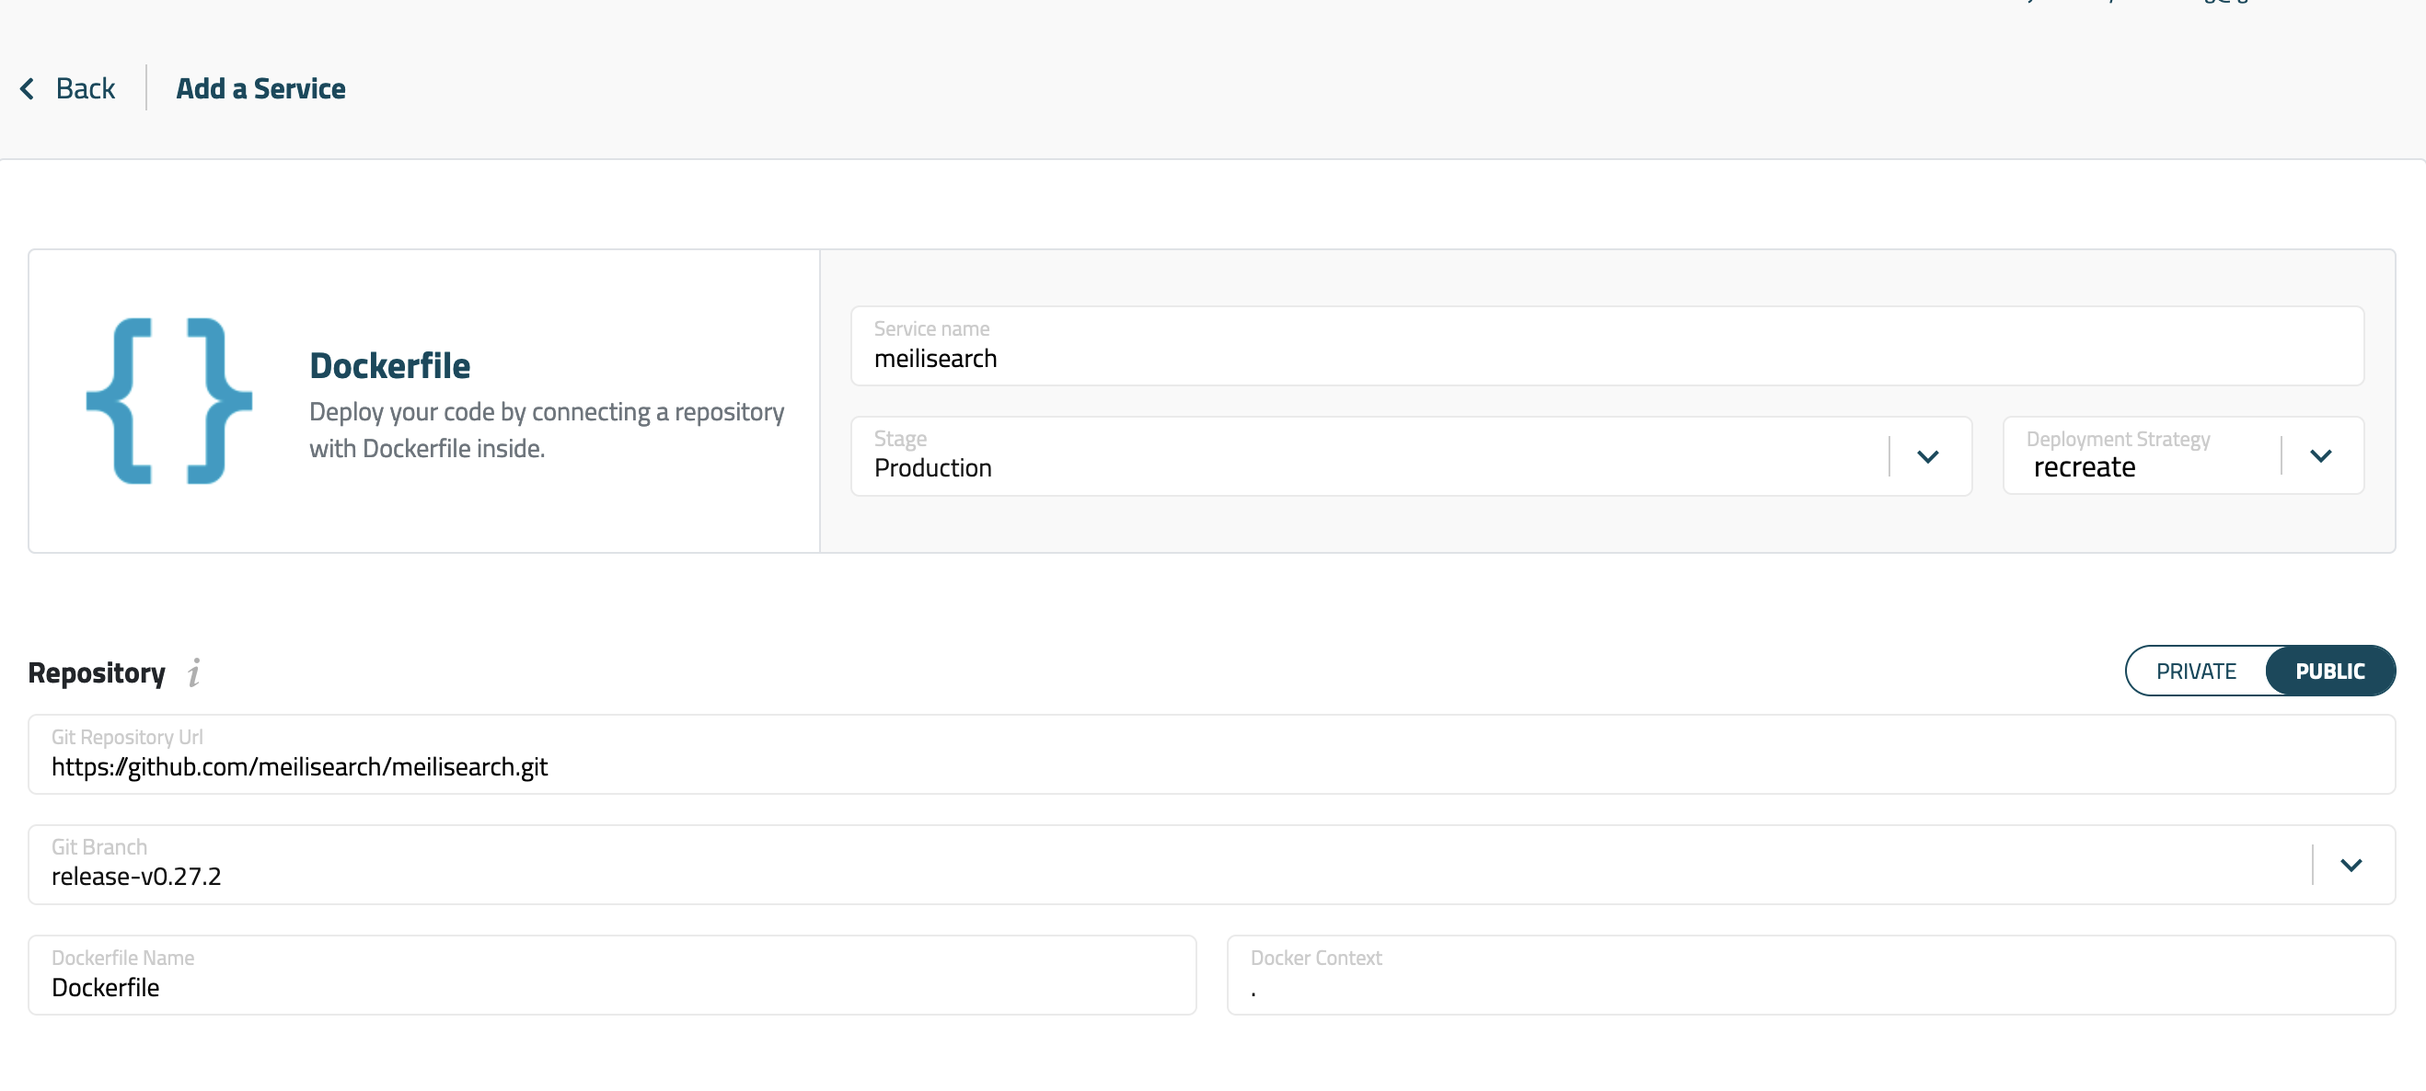
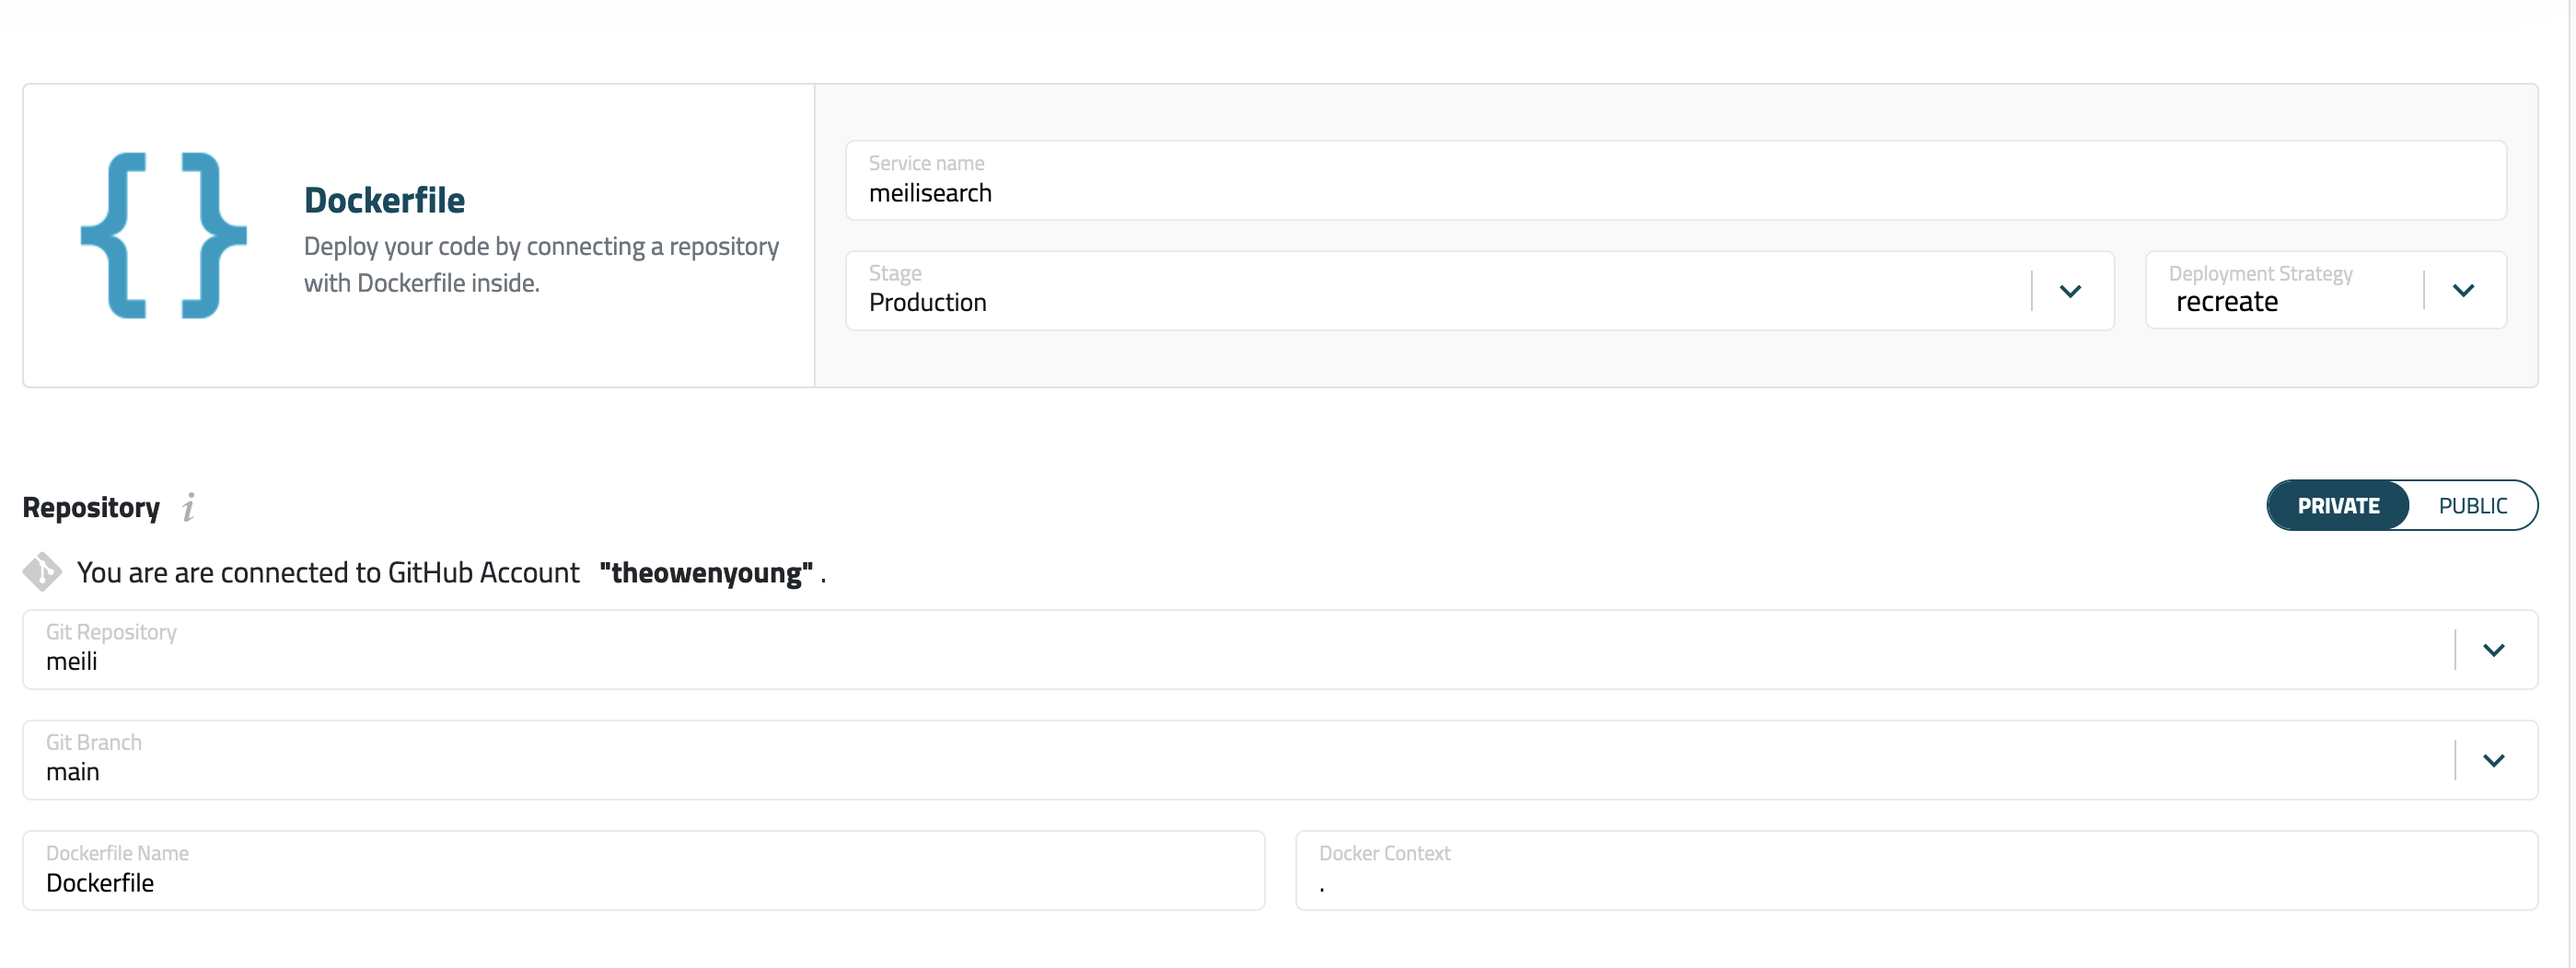
edit mogenius

diff --git a/content/blog/adding-search-to-zola-blog-with-meilisearch-deployed-on-mogenius/index.en.md b/content/blog/adding-search-to-zola-blog-with-meilisearch-deployed-on-mogenius/index.en.md
@@ -33,52 +33,53 @@ Let's see how to set it up:
 
 Just click ADD button, and fill in the form.
 
-## Step 2: Create a new service
+## Step 2: Create a new servicee
 
-Enter to the cloudspace, and click the add button to create a new service with `Bring your own code`
+Enter to the cloudspace, and click the add button to create a new service with `Use a template`, and search `meilisearch`
 
 ## Step 3: Configure the service
 
-1. Fill the servicename
-2. Set the repository to `https://github.com/meilisearch/meilisearch.git`
-3. Choose the branch to `release-v0.27.2`, the latest version 0.28 is not supported by [docs-scrape](https://github.com/meilisearch/docs-scraper), I have submitted [an issue](https://github.com/meilisearch/docs-scraper/issues/231)
+1. Fill the servicename, for me I just type `meilisearch`
+2. Connect your github account(you can give it only selected repo permissions, you must selected at least one repo, it can be any public repo)
+
+   Screenshot:
+   ![0](0.png)
+
+3. Click `Add repository`, input the repo name, I input it as `meili`, and with `public` permission.
 
    Screenshot:
 
    ![1](./1.png)
 
-4. set resources limit to max(or as your need).
+4. set resources limit (if needed, the default value is a recomendation from Mogenius).
+
+5. set environment variables:
+
+   1. add `MEILI_MASTER_KEY` as key vault to protect your master key. (Click `create new secret` to fill the secret)
+   2. the following environment variables can be plain text type.
+
+      ```bash
+      MEILI_NO_ANALYTICS=true
+      MEILI_ENV=production
+      ```
+
+      All environment options are [here](https://docs.meilisearch.com/learn/configuration/instance_options.html#environment)
 
    Screenshot:
 
    ![2](./2.png)
 
-5. set environment variables:
-
-   ```bash
-   MEILI_MASTER_KEY=<your master key>
-   MEILI_NO_ANALYTICS=true
-   MEILI_ENV=production
-   ```
-
-   All environment options are [here](https://docs.meilisearch.com/learn/configuration/instance_options.html#environment)
-
-6. set internal http port to `7700`
-
-7. optional, set custom domain. I set it to `meili.owenyoung.com`, I set a CNAME record `meili.owenyoung.com` to `meilisearch-prod-meilisearch-r4efxz.mo2.mogenius.io`, you will get the endpoint after the service created.
+6. optional, set custom domain. I set it to `meili.owenyoung.com`, I set a CNAME record `meili.owenyoung.com` to `meilisearch-prod-meilisearch-r4efxz.mo2.mogenius.io`, you will get the endpoint after the service created.
 
    Screenshot:
 
-   ![3](./3.png)
+   ![3](./4.png)
 
-8. Then, click the `Create Service` button. It may take 5 minutes to build and deploy the service.
-
-   Screenshot:
-   ![4](./4.png)
+7. Then, click the `Create Service` button. It may take 1 minute to build and deploy the service.
 
 ## Step 5: Get your meilisearch admin key, and user key
 
-After the service is created, the meilisearch is ready to use, you can visit <https://meili.owenyoung.com/> to test if everything is worked fine. For version `0.27.2`, the following is the success output:
+After the service is created, the meilisearch is ready to use, you can visit <https://meili.owenyoung.com/> to test if everything is worked fine. At this moment, the default meilisearch template version is [`v0.27.0rc1`](https://docs.mogenius.com/services/various/meilisearch), the following is the success output:
 
 ```json
 { "status": "Meilisearch is running" }
@@ -98,6 +99,8 @@ We'll use them in the next step.
 ## Step 6: Setup doc-scraper
 
 We need to build search index after every updates of our blogs, I use Github Actions to build my blog, so I just add a job after the site is deployed. We'll use [docs-scraper](https://github.com/meilisearch/docs-scraper) to scrape our whole site with `sitemap.xml` file. [docs-scraper](https://github.com/meilisearch/docs-scraper) will help us to build heading and content level search index, it'll bring the best search experience for our readers.
+
+> The current [docs-scrape is only adapted with `0.27.x`](https://github.com/meilisearch/docs-scraper#-compatibility-with-meilisearch), at this moment, the latest meilisearch version 0.28 is not supported, I have submitted [an issue](https://github.com/meilisearch/docs-scraper/issues/231), so the default Mogenius meilisearch template version `0.27.0rc1` is fine, we can also upgrade it to `v0.27.2`.(I have done this by change the [Dockerfile](https://github.com/theowenyoung/meili/blob/main/Dockerfile), Mongenius will monitor the updates, and automatically deploy the updates)
 
 See the [`.github/workflows/build.yml`](https://github.com/theowenyoung/blog/blob/main/.github/workflows/build.yml)
 
@@ -205,8 +208,12 @@ docsSearchBar({
 
 You can see the all source code on [my blog source code](https://github.com/theowenyoung/blog).
 
-As a programmer, it's not a big deal to setup those things with [mogenius](https://mogenius.com/home), sometimes their UI prompts are not very friendly, for example, the git address I entered at the beginning was `https://github.com/meilisearch/meilisearch`, then I can't create the service, the error message is: `This field is required.`, finally I tried another git url with suffix `.git`, then the form is valid, and I can choose the git branch. I don't know why they don't allow me to choose a tag branch, only the normal branches are allowed, luckily, Meilisearch has [one normal release branch](https://github.com/meilisearch/meilisearch/tree/release-v0.27.2), so I can choose it.
+As a programmer, it's not a big deal to setup those things with [mogenius](https://mogenius.com/home), sometimes their UI prompts are not very friendly, for example:
 
-I don't know if they will offer a config file to setup those form, like `vercel.josn` or `netlify.toml`, if so, it'll be easy for other non-programmers to setup those things.
+1. Firstly, I tried to create meilisearch without the template, the git address I entered at the beginning was `https://github.com/meilisearch/meilisearch`, then I can't create the service, the error message is: `This field is required.`, finally I tried another git url with suffix `.git`, then the form is valid, and I can choose the git branch. I don't know why they don't allow me to choose a tag branch, only the normal branches are allowed, luckily, Meilisearch has [one normal release branch](https://github.com/meilisearch/meilisearch/tree/release-v0.27.2), so I can choose it.
+2. Their log UI is broken on Firefox browser, the edge browser is okay.
+3. Even in Edge browser, the CI/CD monitor UI is broken, with an always refreshed page.
+
+I don't know if they will offer a config file to setup those form, like `vercel.json` or `netlify.toml`, if so, it'll be easy for other non-programmers to setup those things.
 
 Finally, I'm appreciate that they can offer a so decent free plan, I hope I don't need to migrate it to another service. Let's see.
